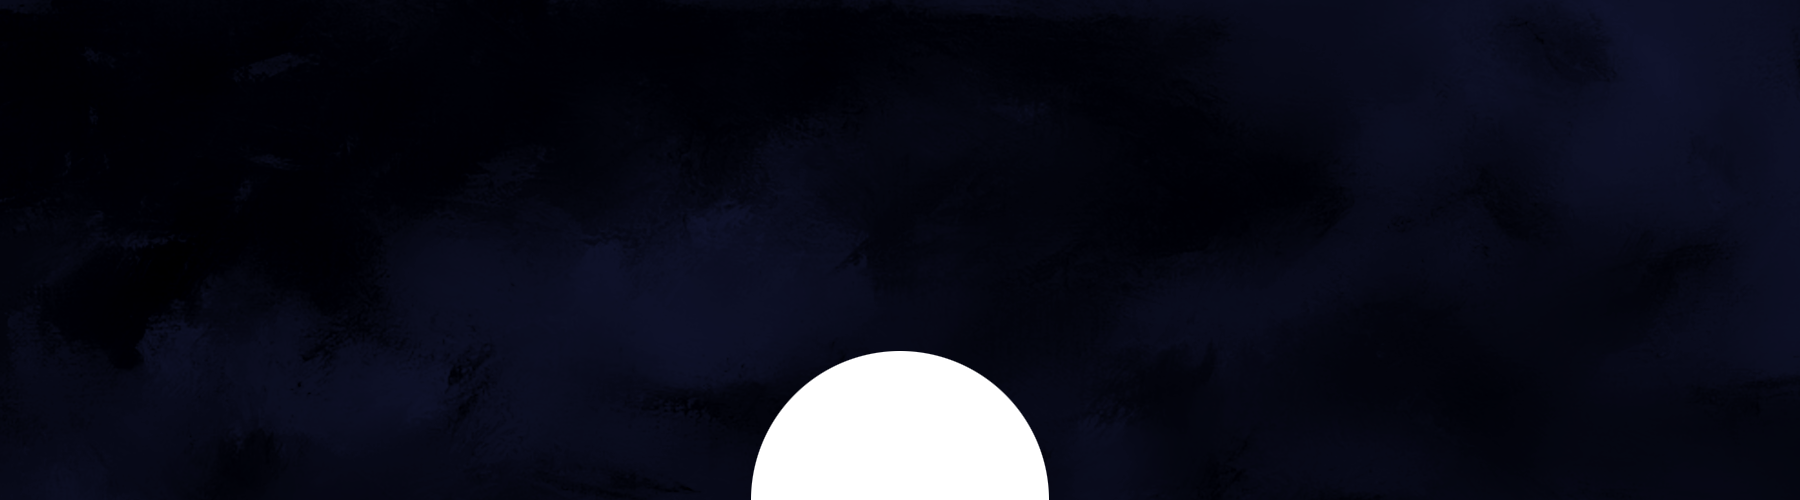
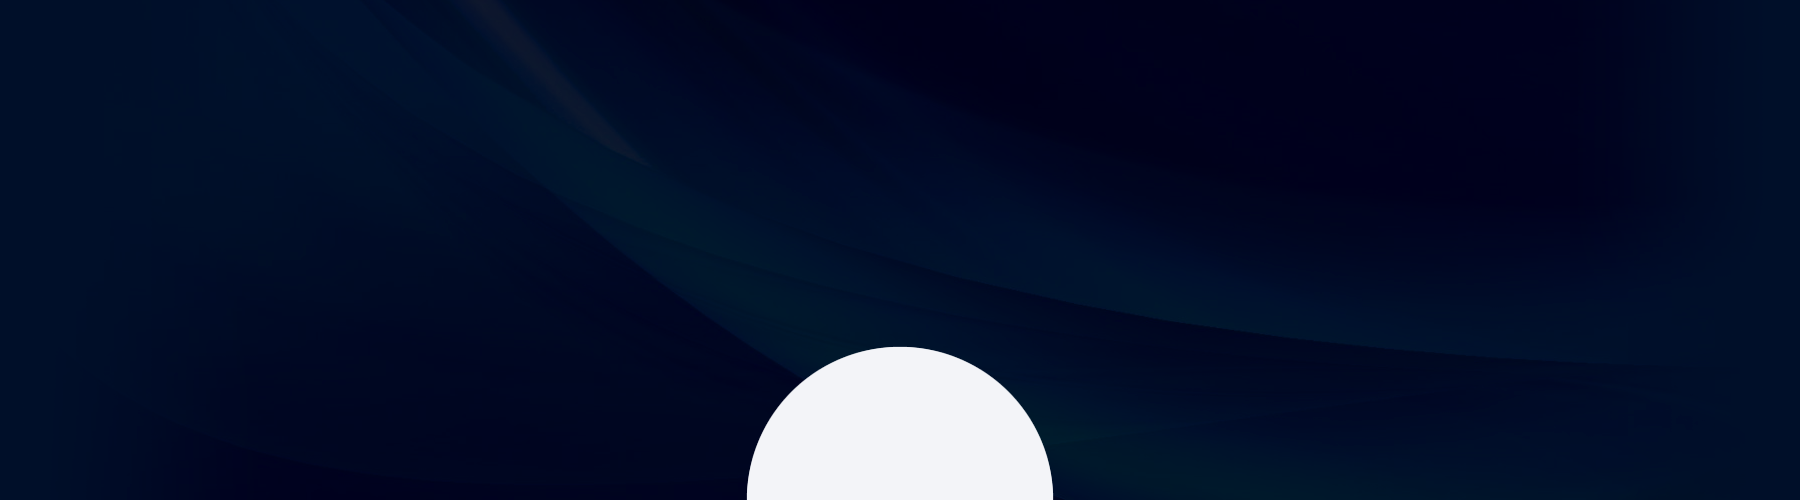
otro commit
Modifiqué una imagen (polygonal-bg.png)
Arreglé el menú responsive que había roto.

diff --git a/sass/styles.scss b/sass/styles.scss
@@ -320,7 +320,7 @@ Hero
     color: $txt-light;
     margin-bottom: 40px;
   }
-  p.intro {
+  .intro {
     color: $txt-light;
     font-size: 20px;
     font-weight: 300;

diff --git a/sass/partials/_buttons.scss b/sass/partials/_buttons.scss
@@ -4,7 +4,7 @@
 
 .btn {
 	font-size: 13px;
-	border: solid 2px;
+	border: solid 8px;
 	@include border-radius(40px);
 	display: inline-block;
 	text-transform: uppercase;

diff --git a/sass/partials/_typography.scss b/sass/partials/_typography.scss
@@ -17,7 +17,7 @@ $bold: 700;
 
 // Sizes
 
-$font-size-h1:60px;
+$font-size-h1:90px;
 $font-size-h2:40px;
 $font-size-h3:24px;
 $font-size-h4:18px;

diff --git a/css/styles.css b/css/styles.css
@@ -604,7 +604,7 @@ Hero
   margin-bottom: 30px;
 }
 
-.hero p .intro {
+.intro {
   color: #fff;
   font-size: 17px;
   font-weight: 500;
